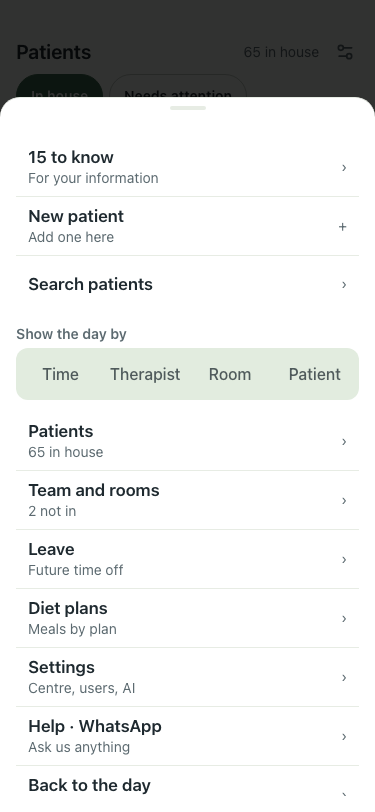
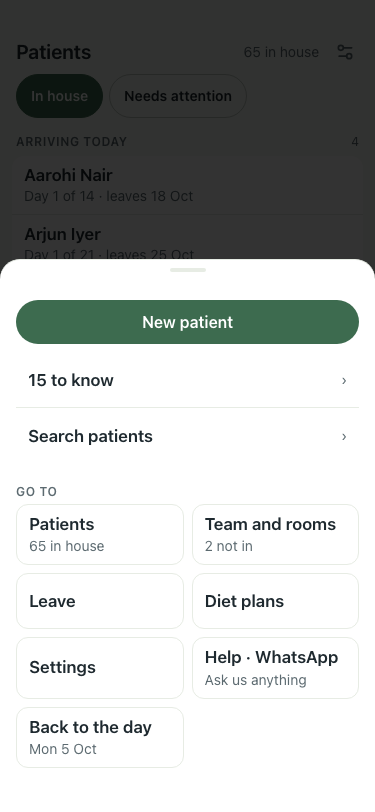
Menu: screens as two-across tiles so the day's menu fits without scrolling; info row single line

diff --git a/src/components/BottomBar.tsx b/src/components/BottomBar.tsx
@@ -1,7 +1,7 @@
 import { useEffect, useLayoutEffect, useRef, useState } from "react";
 import { API_BASE } from "@/lib/apiBase";
 import { Menu, Search } from "lucide-react";
-import { BottomSearch, BottomSheet, DateRow, Group, ListGroup, Row, Seg, Btn } from "@/components/kit";
+import { BottomSearch, BottomSheet, DateRow, Group, ListGroup, Row, Seg, Btn, Tile } from "@/components/kit";
 
 /**
  * The phone frame from docs/design/phone.html (#66): one bar at the bottom, in
@@ -102,9 +102,9 @@ export function BottomBar({ activeTab, go, day, today, now, setDay, print, print
         {/* What needs doing first, then the one main action, then the rest of what can be done here. */}
         {inbox?.need ? <div className="mb-3"><ListGroup><Row key="inbox" title={`${inbox.need} need you`} facts="Things to fix or decide" trailing="›" onClick={close(attention!.open)} /></ListGroup></div> : null}
         {plus ? <Btn kind="primary" onClick={close(plus.run)}>{plus.adds}</Btn> : null}
-        <div className="mt-3">
+        <div className="mt-2">
           <ListGroup>
-            {inbox && !inbox.need ? <Row key="inbox" title={`${inbox.info} to know`} facts="For your information" trailing="›" onClick={close(attention!.open)} /> : null}
+            {inbox && !inbox.need ? <Row key="inbox" title={`${inbox.info} to know`} trailing="›" onClick={close(attention!.open)} /> : null}
             <Row key="search" title={search.label} trailing="›" onClick={close(search.start)} />
             {onDay ? <Row key="day" title="Change day" facts={`${label(day)} · ${when}`} trailing="›" onClick={() => setSheet("day")} /> : null}
             {onDay ? <Row key="print" title="Print the day's sheets" facts={printing ? "Making the PDF…" : undefined} trailing="›" onClick={() => { setSheet(null); if (!printing) print(); }} /> : null}
@@ -117,12 +117,13 @@ export function BottomBar({ activeTab, go, day, today, now, setDay, print, print
           </Group></div>
         ) : null}
         <div className="mt-3 pb-3">
-          <ListGroup title="Go to">
+          <div className="mb-1 pt-2 text-xs font-semibold uppercase tracking-[0.05em] text-muted-foreground">Go to</div>
+          <div className="grid grid-cols-2 gap-2">
             {MENU.filter(([key]) => !(onDay && key === "schedule")).flatMap(([key, name]) => [
-              <Row key={key} title={name} facts={hints[key]} trailing="›" onClick={() => { go(key); setSheet(null); }} />,
-              key === "settings" && helpWa ? <Row key="help" title="Help · WhatsApp" facts="Ask us anything" trailing="›" href={`https://wa.me/${helpWa}`} onClick={() => setSheet(null)} /> : null,
+              <Tile key={key} title={name} facts={hints[key]} onClick={() => { go(key); setSheet(null); }} />,
+              key === "settings" && helpWa ? <Tile key="help" title="Help · WhatsApp" facts="Ask us anything" href={`https://wa.me/${helpWa}`} onClick={() => setSheet(null)} /> : null,
             ])}
-          </ListGroup>
+          </div>
         </div>
       </BottomSheet> : null}
 

diff --git a/src/components/kit.tsx b/src/components/kit.tsx
@@ -260,6 +260,13 @@ export function BottomSearch({ value, onChange, onClose, placeholder, label }: {
   );
 }
 
+/** A screen to go to, two across: its name and, when there is one, a live fact ("65 in house"). */
+export const Tile = ({ title, facts, onClick, href }: { title: ReactNode; facts?: ReactNode; onClick?: () => void; href?: string }) => {
+  const cls = "flex min-h-14 flex-col justify-center rounded-xl border bg-card px-3 py-2 text-left active:bg-secondary";
+  const body = <><span className="line-clamp-2 text-row font-semibold leading-snug">{title}</span>{facts ? <span className="line-clamp-1 text-sm text-muted-foreground">{facts}</span> : null}</>;
+  return href ? <a className={cls} href={href} target="_blank" rel="noopener noreferrer" onClick={onClick}>{body}</a> : <button type="button" className={cls} onClick={onClick}>{body}</button>;
+};
+
 /** One row: title, up to two facts, one trailing fact, and a flag line only when something needs doing. */
 export const Row = ({ title, facts, trailing, flag, onClick, href }: { title: ReactNode; facts?: ReactNode; trailing?: ReactNode; flag?: ReactNode; onClick?: () => void; /** A row that leaves the app (WhatsApp) is a link, so it can be opened in a new tab. */ href?: string }) => {
   const body = (

diff --git a/tests/e2e/phoneAudit.spec.ts b/tests/e2e/phoneAudit.spec.ts
@@ -79,7 +79,7 @@ test('Help · WhatsApp sits after Settings in the menu, only with a number', asy
     await set('420777558262');
     await signIn(page);
     await page.getByRole('button', { name: 'Menu', exact: true }).click();
-    const tiles = page.getByRole('dialog').locator('section').locator('a, button');
+    const tiles = page.getByRole('dialog').locator('a, button');
     await expect(page.getByRole('link', { name: /^Help · WhatsApp/ })).toBeVisible();
     const names = await tiles.allInnerTexts();
     const at = names.findIndex((t) => t.startsWith('Settings'));

diff --git a/docs/design/DESIGN.md b/docs/design/DESIGN.md
@@ -94,7 +94,7 @@ Every list, sheet and button has all of these designed, not left to default.
 
 ## 7. Components (all live in `src/components/kit.tsx`)
 
-- **Bottom bar** (5 Oct, the maintainer's call): one round button, bottom right, on every screen: the hamburger, 56 high, 10 from the edges, the one shadow, with a count badge when something needs the admin (red) or is for their information (grey). Everything else is in its sheet, in this order: what needs you (only when something does, red), the screen's one main action as the filled button ("Book a treatment", "New patient"…), then Search, Change day and Print (day only), the info-only inbox row among them, "Show the day by" (day only), and "Go to" the screens ("Back to the day" only when away from it). Search, when chosen, takes the bar's place with its field above the keyboard. Hidden while a sheet, form or the keyboard is open.
+- **Bottom bar** (5 Oct, the maintainer's call): one round button, bottom right, on every screen: the hamburger, 56 high, 10 from the edges, the one shadow, with a count badge when something needs the admin (red) or is for their information (grey). Everything else is in its sheet, in this order: what needs you (only when something does, red), the screen's one main action as the filled button ("Book a treatment", "New patient"…), then Search, Change day and Print (day only), the info-only inbox row among them, "Show the day by" (day only), and "Go to" the screens as two-across tiles (Patients 65 in house, Team 2 not in; "Back to the day" only when away from it), so the whole menu fits a 375×812 phone without scrolling. Search, when chosen, takes the bar's place with its field above the keyboard. Hidden while a sheet, form or the keyboard is open.
   - Anchors: the button is at the same pixel on every screen. A task that used + , Search or the pill costs one tap more than before, accepted.
   - **Week strip** (the day screen's top, replacing the ‹ › header): one week, Sunday first as Apple Calendar draws it, swipe for the next or last week, tap a day; today has a ring, the chosen day is filled, "Today" appears when away from it. Far dates: Menu, Change day.
 - **+ (adaptive).** 50px green circle, always a plus. It adds what the screen is about: day → treatment, Patients → patient, Leave → leave, Team → therapist / room / therapy (a small choice sheet). Editing is a tap on the thing itself. Its accessible name says what it adds ("New patient").

diff --git a/docs/design/uat/2026-10-05-menu-polish/README.md b/docs/design/uat/2026-10-05-menu-polish/README.md
@@ -1,10 +1,10 @@
 # UAT 2026-10-05-menu-polish
 
-Base http://localhost:8091, 375x812. Written by scripts/uat.mjs.
+Base http://localhost:8097, 375x812. Written by scripts/uat.mjs.
 
 | # | Step | Result | Read off the page | Shot |
 |---|---|---|---|---|
-| 01 | Menu on the day: Book a treatment is the one filled button; no "Back to the day"; Show by is there | FAIL | filled Book button 0, order: Menu | 15 to know | For your information | › | Book a treatment | Add one here | ![01](01.png) |
-| 02 | Menu on Patients: New patient is the filled button, "Back to the day" is there, no Show by | FAIL | Menu | 15 to know | For your information | › | ![02](02.png) |
-| 03 | Week strip: a rule under it, and the month follows a swipe to another month | FAIL | TimeoutError: locator.evaluate: Timeout 30000ms exceeded. | ![03](03.png) |
+| 01 | Menu on the day: Book a treatment is the one filled button; no "Back to the day"; Show by is there | pass | filled Book button 1, order: Menu | Book a treatment | 15 to know | › | Search treatments | › | ![01](01.png) |
+| 02 | Menu on Patients: New patient is the filled button, "Back to the day" is there, no Show by | pass | Menu | New patient | 15 to know | › | ![02](02.png) |
+| 03 | Week strip: a rule under it, and the month follows a swipe to another month | pass | rule 1px; heading October 2026 to November 2026 after four weeks | ![03](03.png) |
 | 04 | Needs-you row sits above the Book button when something needs fixing | pass | nothing needs fixing on the seeded day (170 treatments); info row sits under the actions | ![04](04.png) |
